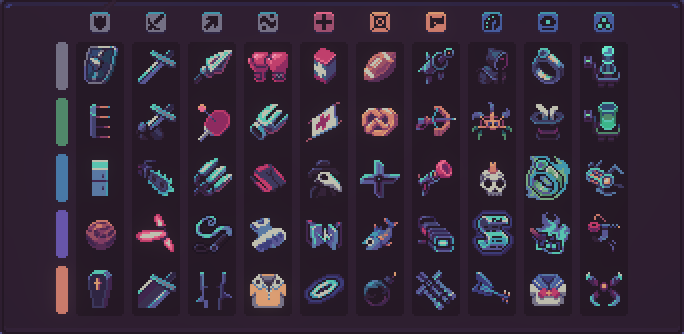
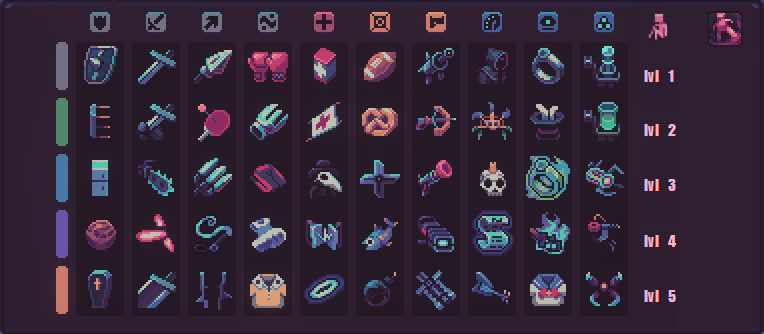
update base hp, add summons

diff --git a/js/main.js b/js/main.js
@@ -5,13 +5,14 @@ $(function () {
 		tanks: [[220, .03], [370, .05], [530, .10], [710, .06], [900, .07]],
 		fencers: [[160, .05], [310, .06], [440, .07], [600, .08], [810, .09]],
 		tricksters: [[130, .09], [180, .09], [240, .04], [450, .08], [690, .04]],
-		fighters: [[120, .04], [230, .09], [450, .09], [600, .09], [770, .03]],
+		fighters: [[120, .06], [230, .07], [450, .09], [600, .09], [770, .03]],
 		healers: [[10, .10], [50, .10], [90, .10], [130, .10], [180, .10]],
 		throwers: [[80, .07], [110, .07], [150, .10], [200, .07], [250, .07]],
 		shooters: [[0, .00], [40, .10], [70, .04], [130, .07], [180, .09]],
 		cultists: [[90, .05], [170, .06], [240, .07], [350, .08], [490, .09]],
 		mages: [[10, .07], [40, .10], [60, .04], [650, .06], [110, .08]],
-		eggheads: [[110, .06], [140, .06], [210, .10], [280, .10], [700, .06]]
+		eggheads: [[110, .06], [140, .06], [210, .10], [280, .10], [700, .06]],
+		newbies: [[70, 0], [100, 0], [150, 0], [200, 0], [250, 0]],
 	};
 	let img = new Image(684, 334);
 	img.onload = calc;
@@ -29,47 +30,53 @@ $(function () {
 			bear = $("input[name=bear]").is(":checked") ? 1.3 : 1,
 			fit = $("input[name=fit]").is(":checked") ? 1.1 : 1,
 			flat_e = parseInt($("input[name=flat_e]").val(), 10) || 0,
-			percent_e = parseInt($("input[name=percent_e]").val(), 10) || 0;
+			percent_e = parseInt($("input[name=percent_e]").val(), 10) || 0,
+			summons = parseInt($("input[name=summons]").val(), 10) || 0;
 		if (level < 1) level = 1;
 		else if (level > 5) level = 5;
-		let newbie_hp;
-		switch (level) {
-			case 1:
-				newbie_hp = 70;
-				break;
-			case 2:
-				newbie_hp = 120;
-				break;
-			case 3:
-				newbie_hp = 170;
-				break;
-			case 4:
-				newbie_hp = 200;
-				break;
-			case 5:
-				newbie_hp = 250;
-				break;
-		}
-		//let newbie_hp = level === 5 ? 250 : 70 + 50 * (level - 1);
+		let newbie_hp = items.newbies[level - 1][0];
+		
 		ctx.drawImage(img, 0, 0);
 		let fontSize = 16;
 		ctx.font = fontSize + "px fantasy";
 		
+		let mega = 0;
 		let i = 0;
 		$.each(items, function(itemClass, itemsClass){
-			$.each(itemsClass, function(j, item){
-				let hp = (item[0] * Math.pow(item[1] + 1, level - 1) + newbie_hp + flat + bonus + flat_e) * (percent / 100 + 1) * fat * fit * (percent_e / 100 + 1);
-				if (itemClass === "cultists") hp *= bear;
-				hp = parseInt(hp, 10);
-				let coords = [76 + i * 56, 43 + j * 55, 123 + i * 56, 93 + j * 55];
-				var width = ctx.measureText(hp).width;
-				ctx.fillStyle = "rgba(20, 15, 20, 0.8)";
-				ctx.fillRect(+coords[0] + (47 - width) / 2 - 6, +coords[1] + 58 - fontSize, width + 12, fontSize + 4);
-				ctx.fillStyle = "rgba(76, 175, 80, 0.9)";
-				ctx.fillText(hp, +coords[0] + (47 - width) / 2, +coords[1] + 58);
-			});
+			if (itemClass === 'newbies') {
+				$.each(itemsClass, function(j, item){
+					let hp = (item[0] + flat + flat_e) * (percent / 100 + 1) * fit * (percent_e / 100 + 1);
+					hp = parseInt(hp, 10);
+					let coords = [76 + i * 56, 43 + j * 55, 123 + i * 56, 93 + j * 55];
+					var width = ctx.measureText(hp).width;
+					ctx.fillStyle = "rgba(20, 15, 20, 0.8)";
+					ctx.fillRect(+coords[0] + (47 - width) / 2 - 6, +coords[1] + 58 - fontSize, width + 12, fontSize + 4);
+					ctx.fillStyle = "rgba(76, 175, 80, 0.9)";
+					ctx.fillText(hp, +coords[0] + (47 - width) / 2, +coords[1] + 58);
+					mega += parseInt($("input[name='lvl_" + (j + 1) + "']").val(), 10) * hp;
+				});
+			} else {
+				$.each(itemsClass, function(j, item){
+					let hp = (item[0] * Math.pow(item[1] + 1, level - 1) + newbie_hp + flat + bonus + flat_e) * (percent / 100 + 1) * fat * fit * (percent_e / 100 + 1);
+					if (itemClass === "cultists") hp *= bear;
+					hp = parseInt(hp, 10);
+					let coords = [76 + i * 56, 43 + j * 55, 123 + i * 56, 93 + j * 55];
+					var width = ctx.measureText(hp).width;
+					ctx.fillStyle = "rgba(20, 15, 20, 0.8)";
+					ctx.fillRect(+coords[0] + (47 - width) / 2 - 6, +coords[1] + 58 - fontSize, width + 12, fontSize + 4);
+					ctx.fillStyle = "rgba(76, 175, 80, 0.9)";
+					ctx.fillText(hp, +coords[0] + (47 - width) / 2, +coords[1] + 58);
+				});
+			}
 			++ i;
 		});
+		mega *= (summons / 100 + 1);
+		var coords = [701, 268];
+		var width = ctx.measureText(mega).width;
+		ctx.fillStyle = "rgba(20, 15, 20, 0.8)";
+		ctx.fillRect(+coords[0] + (47 - width) / 2 - 6, +coords[1] + 58 - fontSize, width + 12, fontSize + 4);
+		ctx.fillStyle = "rgba(76, 175, 80, 0.9)";
+		ctx.fillText(mega, +coords[0] + (47 - width) / 2, +coords[1] + 58);
 	}
 	
 	$("input").on("input", function(){

diff --git a/index.html b/index.html
@@ -9,13 +9,23 @@
 	<link rel="stylesheet" href="css/style.css">
 </head>
 <body>
-	<canvas id="items" width="684" height="334"></canvas>
+	<div class="canvas-wrapper">
+		<canvas id="items" width="764" height="334"></canvas>
+		<div id="newbies_count">
+			<input name="lvl_1" type="number" step="1" min="0" value="0" max="49" />
+			<input name="lvl_2" type="number" step="1" min="0" value="0" max="49" />
+			<input name="lvl_3" type="number" step="1" min="0" value="0" max="49" />
+			<input name="lvl_4" type="number" step="1" min="0" value="0" max="49" />
+			<input name="lvl_5" type="number" step="1" min="0" value="0" max="49" />
+		</div>
+	</div>
 	
 	<div id="options">
 		<input name="level" type="number" step="1" min="1" max="5" value="1" /> unit's level <br />
 		<br /> <strong>tree</strong> <br />
 		<input name="flat" type="number" step="100" min="0" value="0" max="200" list="hb" /> health bonus <br />
 		<input name="percent" type="number" step="10" min="0" value="0" max="800" list="hm" /> health multiplier <br />
+		<input name="summons" type="number" step="50" min="0" value="0" max="600" list="hs" /> mglw'nafh <br />
 		<br /> <strong>mutations</strong> <br />
 		<input name="fat" type="checkbox" /> healhty fat (+30%) <br />
 		<input name="bear" type="checkbox" /> bear spirit (+30% for cultists) <br />
@@ -43,6 +53,12 @@
 	<datalist id="hb2">
 		<option value="-20">
 		<option value="50">
+	</datalist>
+	<datalist id="hs">
+		<option value="100">
+		<option value="250">
+		<option value="400">
+		<option value="600">
 	</datalist>
 </body>
 </html>

diff --git a/css/style.css b/css/style.css
@@ -8,3 +8,21 @@ body {
 	vertical-align: top;
 	padding: 20px;
 }
+.canvas-wrapper {
+	position: relative;
+	display: inline-block;
+	width: 764px;
+}
+#items {
+	position: absolute;
+}
+#newbies_count {
+	position: relative;
+	width: 32px;
+	top: 64px;
+    left: 704px;
+}
+#newbies_count input {
+	width: 32px;
+	margin: 2px 0 32px 0;
+}
